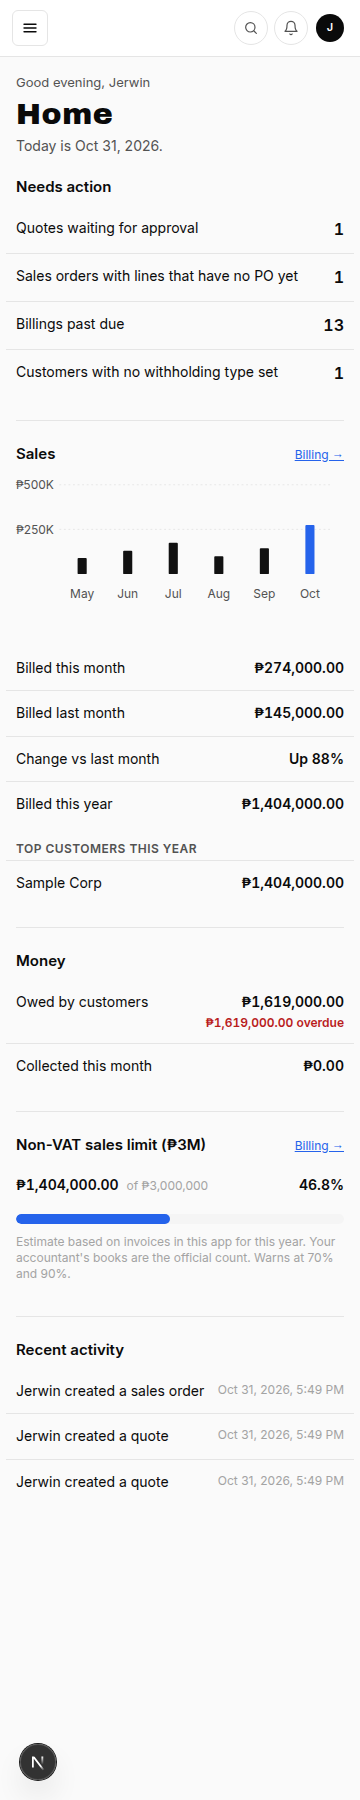
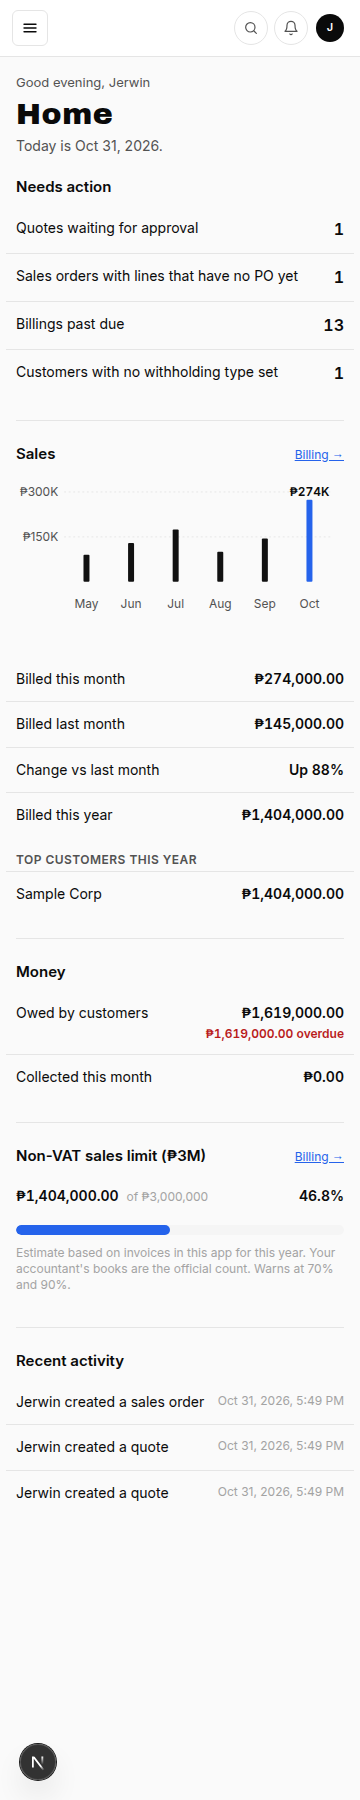
fix(home-sales): full-width chart, nice Y scale, current-month label
Expand the Sales SVG viewBox to fill the row at 1280 while keeping thin
bars, ~12px labels and the height cap. Scale the Y axis with niceSalesMax
(274K → ₱300K, two gridlines). Show a short ₱ amount above the current
month bar only, with top padding so it does not clip.

diff --git a/src/components/home/SalesChart.tsx b/src/components/home/SalesChart.tsx
@@ -6,14 +6,24 @@ import { formatSalesAxisPeso, type HomeSalesMonth } from "@/lib/home/sales";
 
 /** On-screen label size (matches .small / muted grey elsewhere). */
 const LABEL_PX = 12;
+/** Thin bar thickness on screen (px). */
+const BAR_PX = 6;
+/** Left gutter for axis labels on screen (px). */
+const PAD_L_PX = 52;
+/** Top gutter so the current-month amount label never clips (px). */
+const PAD_T_PX = 20;
+const PAD_R_PX = 8;
+const PAD_B_PX = 36;
+/** Fixed viewBox height; width expands so the chart fills the row. */
+const VB_H = 160;
 
 /**
  * Plain SVG bar chart for Home Sales. Thin black bars; current month #2563EB.
  * Hover / tap shows the month and full ₱ amount. Narrow viewports use the
  * last 6 months (caller passes the matching slice via `months`).
  *
- * Axis / month labels use an inverse font-size so they stay ~12px on screen
- * even when the viewBox scales up at wide widths.
+ * ViewBox width tracks the container aspect so the chart spans the full row at
+ * 1280 while bars stay thin. Axis / month labels stay ~12px on screen.
  */
 export function SalesChart({
   months,
@@ -25,22 +35,23 @@ export function SalesChart({
   const [active, setActive] = useState<number | null>(null);
   const tipId = useId();
   const svgRef = useRef<SVGSVGElement>(null);
-  // Font size in viewBox units → LABEL_PX CSS pixels after the SVG scales.
-  const [labelFont, setLabelFont] = useState(LABEL_PX);
-  const maxTick = Math.max(0, ...axisTicks, ...months.map((m) => Number(m.amount)));
-  const chartMax = maxTick > 0 ? maxTick : 1;
+  const [vbW, setVbW] = useState(360);
+  const [scale, setScale] = useState(1);
 
-  const W = 360;
-  const H = 148;
-  const padL = 52;
-  const padR = 8;
-  const padT = 14;
-  const padB = 36;
-  const innerW = W - padL - padR;
-  const innerH = H - padT - padB;
+  const chartMax = Math.max(0, ...axisTicks);
+  const safeMax = chartMax > 0 ? chartMax : 1;
+
+  const labelFont = LABEL_PX / scale;
+  const yearFont = labelFont * 0.9;
+  const padL = PAD_L_PX / scale;
+  const padR = PAD_R_PX / scale;
+  const padT = PAD_T_PX / scale;
+  const padB = PAD_B_PX / scale;
+  const innerW = Math.max(1, vbW - padL - padR);
+  const innerH = Math.max(1, VB_H - padT - padB);
   const n = Math.max(1, months.length);
   const slot = innerW / n;
-  const barW = Math.max(3, Math.min(10, slot * 0.45));
+  const barW = Math.min(slot * 0.45, BAR_PX / scale);
 
   useLayoutEffect(() => {
     const svg = svgRef.current;
@@ -49,10 +60,10 @@ export function SalesChart({
       const w = svg.clientWidth;
       const h = svg.clientHeight;
       if (w <= 0 || h <= 0) return;
-      // Uniform meet-scale: labels stay ~LABEL_PX CSS pixels after transform.
-      const scale = Math.min(w / W, h / H);
-      if (scale <= 0) return;
-      setLabelFont(LABEL_PX / scale);
+      // Match viewBox aspect to the laid-out box so meet fills the full width
+      // (no centred half-width chart under the height cap).
+      setVbW(VB_H * (w / h));
+      setScale(h / VB_H);
     };
     sync();
     const ro = new ResizeObserver(sync);
@@ -61,31 +72,30 @@ export function SalesChart({
   }, []);
 
   const activeMonth = active !== null ? months[active] : null;
-  const yearFont = labelFont * 0.9;
 
   return (
     <div className="home-sales-chart">
       <svg
         ref={svgRef}
         className="home-sales-svg"
-        viewBox={`0 0 ${W} ${H}`}
+        viewBox={`0 0 ${vbW} ${VB_H}`}
         preserveAspectRatio="xMidYMid meet"
         role="img"
         aria-label="Billed sales for the last months"
       >
         {axisTicks.map((t) => {
-          const y = padT + innerH * (1 - t / chartMax);
+          const y = padT + innerH * (1 - t / safeMax);
           return (
             <g key={t}>
               <line
                 x1={padL}
-                x2={W - padR}
+                x2={vbW - padR}
                 y1={y}
                 y2={y}
                 className="home-sales-grid"
               />
               <text
-                x={padL - 6}
+                x={padL - 6 / scale}
                 y={y + labelFont * 0.35}
                 textAnchor="end"
                 className="home-sales-axis"
@@ -99,20 +109,21 @@ export function SalesChart({
 
         {months.map((m, i) => {
           const value = Number(m.amount);
-          const h = chartMax > 0 ? (Math.max(0, value) / chartMax) * innerH : 0;
-          // Zero months still render a zero-height bar mark (not a gap in the slot).
+          const h = safeMax > 0 ? (Math.max(0, value) / safeMax) * innerH : 0;
           const x = padL + slot * i + (slot - barW) / 2;
           const y = padT + innerH - h;
-          const labelY = H - (m.yearLabel ? 14 : 10);
+          const cx = padL + slot * i + slot / 2;
+          const labelY = VB_H - (m.yearLabel ? padB * 0.35 : padB * 0.28);
           const isActive = active === i;
+          const showAmount = m.isCurrent && value > 0;
           return (
             <g key={m.key}>
               <rect
                 x={x}
-                y={h > 0 ? y : padT + innerH - 1}
+                y={h > 0 ? y : padT + innerH - 1 / scale}
                 width={barW}
-                height={h > 0 ? h : 1}
-                rx={1}
+                height={h > 0 ? h : 1 / scale}
+                rx={1 / scale}
                 className={`home-sales-bar${m.isCurrent ? " is-current" : ""}${isActive ? " is-active" : ""}`}
                 onMouseEnter={() => setActive(i)}
                 onMouseLeave={() => setActive(null)}
@@ -124,8 +135,19 @@ export function SalesChart({
                 aria-label={`${m.shortLabel}${m.yearLabel ? ` ${m.yearLabel}` : ""}: ${formatPeso(m.amount)}`}
                 aria-describedby={isActive ? tipId : undefined}
               />
+              {showAmount ? (
+                <text
+                  x={cx}
+                  y={y - 4 / scale}
+                  textAnchor="middle"
+                  className="home-sales-bar-amount"
+                  fontSize={labelFont}
+                >
+                  {formatSalesAxisPeso(value)}
+                </text>
+              ) : null}
               <text
-                x={padL + slot * i + slot / 2}
+                x={cx}
                 y={labelY}
                 textAnchor="middle"
                 className="home-sales-xlabel"
@@ -135,8 +157,8 @@ export function SalesChart({
               </text>
               {m.yearLabel ? (
                 <text
-                  x={padL + slot * i + slot / 2}
-                  y={labelY + yearFont + 1}
+                  x={cx}
+                  y={labelY + yearFont + 1 / scale}
                   textAnchor="middle"
                   className="home-sales-xyear"
                   fontSize={yearFont}

diff --git a/src/lib/home/sales.ts b/src/lib/home/sales.ts
@@ -85,7 +85,7 @@ export function salesChangeVsLastMonth(
   return { label: "Same", tone: "flat" };
 }
 
-/** Axis tick labels like ₱500K / ₱1.0M (compact, always with ₱). */
+/** Axis / bar short labels like ₱500K / ₱1.0M / ₱274K (compact, always with ₱). */
 export function formatSalesAxisPeso(amount: number): string {
   const n = Math.abs(Number(amount));
   if (!Number.isFinite(n) || n <= 0) return "₱0";
@@ -96,27 +96,40 @@ export function formatSalesAxisPeso(amount: number): string {
   if (n >= 1_000 && n < 1_000_000 && Number.isInteger(n / 1_000)) {
     return `₱${n / 1_000}K`;
   }
+  // Near-thousand amounts (e.g. 274_400) → round to whole ₱K for bar labels.
+  if (n >= 1_000 && n < 1_000_000) {
+    const k = Math.round(n / 1_000);
+    if (k >= 1000) return `₱${(k / 1000).toFixed(1)}M`;
+    return `₱${k}K`;
+  }
   return formatCompactPesoLimit(n);
 }
 
-/** Nice axis tick values at ~½ and ~full of the chart max (at least one tick). */
-export function salesAxisTicks(maxAmount: number): number[] {
-  const max = Math.max(0, Number(maxAmount) || 0);
-  if (max <= 0) return [0];
-  const nice = niceCeil(max);
-  if (nice <= 0) return [0];
-  const mid = nice / 2;
-  if (mid > 0 && mid < nice) return [mid, nice];
-  return [nice];
-}
+/** Default Y max when every month is 0 / empty (keeps 2 clean gridlines, no NaN). */
+export const SALES_AXIS_EMPTY_MAX = 1_000;
 
-function niceCeil(n: number): number {
-  if (n <= 0) return 0;
+/**
+ * Clean round ceiling just above `maxAmount` for the Sales chart Y scale.
+ * e.g. 274_000 → 300_000. Zero / non-finite → {@link SALES_AXIS_EMPTY_MAX}.
+ */
+export function niceSalesMax(maxAmount: number): number {
+  const n = Number(maxAmount);
+  if (!Number.isFinite(n) || n <= 0) return SALES_AXIS_EMPTY_MAX;
   const exp = Math.floor(Math.log10(n));
   const base = 10 ** exp;
   const frac = n / base;
-  const niceFrac = frac <= 1 ? 1 : frac <= 2 ? 2 : frac <= 5 ? 5 : 10;
-  return niceFrac * base;
+  // Steps dense enough that 274K → 300K (not 500K).
+  const steps = [1, 1.2, 1.5, 2, 2.5, 3, 4, 5, 6, 8, 10];
+  const niceFrac = steps.find((s) => s >= frac - 1e-12) ?? 10;
+  const nice = niceFrac * base;
+  return Number.isFinite(nice) && nice > 0 ? nice : SALES_AXIS_EMPTY_MAX;
+}
+
+/** Two Y gridlines: middle and top (= nice max). */
+export function salesAxisTicks(maxAmount: number): number[] {
+  const nice = niceSalesMax(maxAmount);
+  const mid = nice / 2;
+  return mid > 0 && mid < nice ? [mid, nice] : [nice];
 }
 
 export type SalesCustomerTotal = {

diff --git a/tests/home-sales.test.ts b/tests/home-sales.test.ts
@@ -7,6 +7,8 @@ import {
   isSalesEmpty,
   lastNMonthKeys,
   manilaMonthKey,
+  niceSalesMax,
+  SALES_AXIS_EMPTY_MAX,
   salesAxisTicks,
   salesChangeVsLastMonth,
   salesMonthLabel,
@@ -76,15 +78,43 @@ describe("home sales change vs last month", () => {
   });
 });
 
-describe("home sales axis + empty", () => {
-  it("formats grey axis labels like ₱500K / ₱1.0M", () => {
-    expect(formatSalesAxisPeso(500_000)).toBe("₱500K");
-    expect(formatSalesAxisPeso(1_000_000)).toBe("₱1.0M");
+describe("home sales nice Y max", () => {
+  it("rounds just above the highest month to a clean value (274K → 300K)", () => {
+    expect(niceSalesMax(274_000)).toBe(300_000);
+    expect(niceSalesMax(274_000.5)).toBe(300_000);
+    expect(niceSalesMax(300_000)).toBe(300_000);
   });
 
-  it("picks nice ticks from the max month", () => {
-    expect(salesAxisTicks(0)).toEqual([0]);
-    expect(salesAxisTicks(800_000)).toEqual([500_000, 1_000_000]);
+  it("handles zero / empty / non-finite with a sensible default (no NaN)", () => {
+    expect(niceSalesMax(0)).toBe(SALES_AXIS_EMPTY_MAX);
+    expect(niceSalesMax(-10)).toBe(SALES_AXIS_EMPTY_MAX);
+    expect(niceSalesMax(Number.NaN)).toBe(SALES_AXIS_EMPTY_MAX);
+    expect(niceSalesMax(Number.POSITIVE_INFINITY)).toBe(SALES_AXIS_EMPTY_MAX);
+    expect(Number.isFinite(niceSalesMax(0))).toBe(true);
+  });
+
+  it("handles very small and very large values", () => {
+    expect(niceSalesMax(1)).toBe(1);
+    expect(niceSalesMax(50)).toBe(50);
+    expect(niceSalesMax(51)).toBe(60);
+    expect(niceSalesMax(999)).toBe(1_000);
+    expect(niceSalesMax(1_200_000)).toBe(1_200_000);
+    expect(niceSalesMax(1_250_000)).toBe(1_500_000);
+    expect(niceSalesMax(9_900_000_000)).toBe(10_000_000_000);
+  });
+
+  it("builds two gridlines (middle + top) from the nice max", () => {
+    expect(salesAxisTicks(274_000)).toEqual([150_000, 300_000]);
+    expect(salesAxisTicks(0)).toEqual([SALES_AXIS_EMPTY_MAX / 2, SALES_AXIS_EMPTY_MAX]);
+    expect(salesAxisTicks(800_000)).toEqual([400_000, 800_000]);
+  });
+});
+
+describe("home sales axis + empty", () => {
+  it("formats grey axis labels like ₱500K / ₱1.0M / ₱274K", () => {
+    expect(formatSalesAxisPeso(500_000)).toBe("₱500K");
+    expect(formatSalesAxisPeso(1_000_000)).toBe("₱1.0M");
+    expect(formatSalesAxisPeso(274_000)).toBe("₱274K");
   });
 
   it("treats all-zero months as empty", () => {

diff --git a/src/app/globals.css b/src/app/globals.css
@@ -4249,9 +4249,9 @@ button.contact-card-add {
 .home-sales-svg {
   display: block;
   width: 100%;
-  height: auto;
   max-width: 100%;
-  /* Cap tall empty area above bars on wide Home layouts (~160–200px). */
+  /* Full row width at a capped height (~160–200px); viewBox width tracks aspect. */
+  height: 180px;
   max-height: 180px;
 }
 .home-sales-grid {
@@ -4261,10 +4261,16 @@ button.contact-card-add {
 }
 .home-sales-axis,
 .home-sales-xlabel,
-.home-sales-xyear {
+.home-sales-xyear,
+.home-sales-bar-amount {
   fill: var(--text-2);
   font-family: inherit;
   /* Font size set in viewBox units from JS so on-screen size stays ~12px. */
+}
+.home-sales-bar-amount {
+  fill: var(--text);
+  font-weight: 600;
+  font-variant-numeric: tabular-nums;
 }
 .home-sales-bar {
   fill: #111;
@@ -4380,7 +4386,9 @@ button.contact-card-add {
   }
   /* Keep natural aspect at phone widths (don't force the desktop height cap). */
   .home-sales-svg {
+    height: auto;
     max-height: none;
+    aspect-ratio: 2.25 / 1;
   }
 }
 
